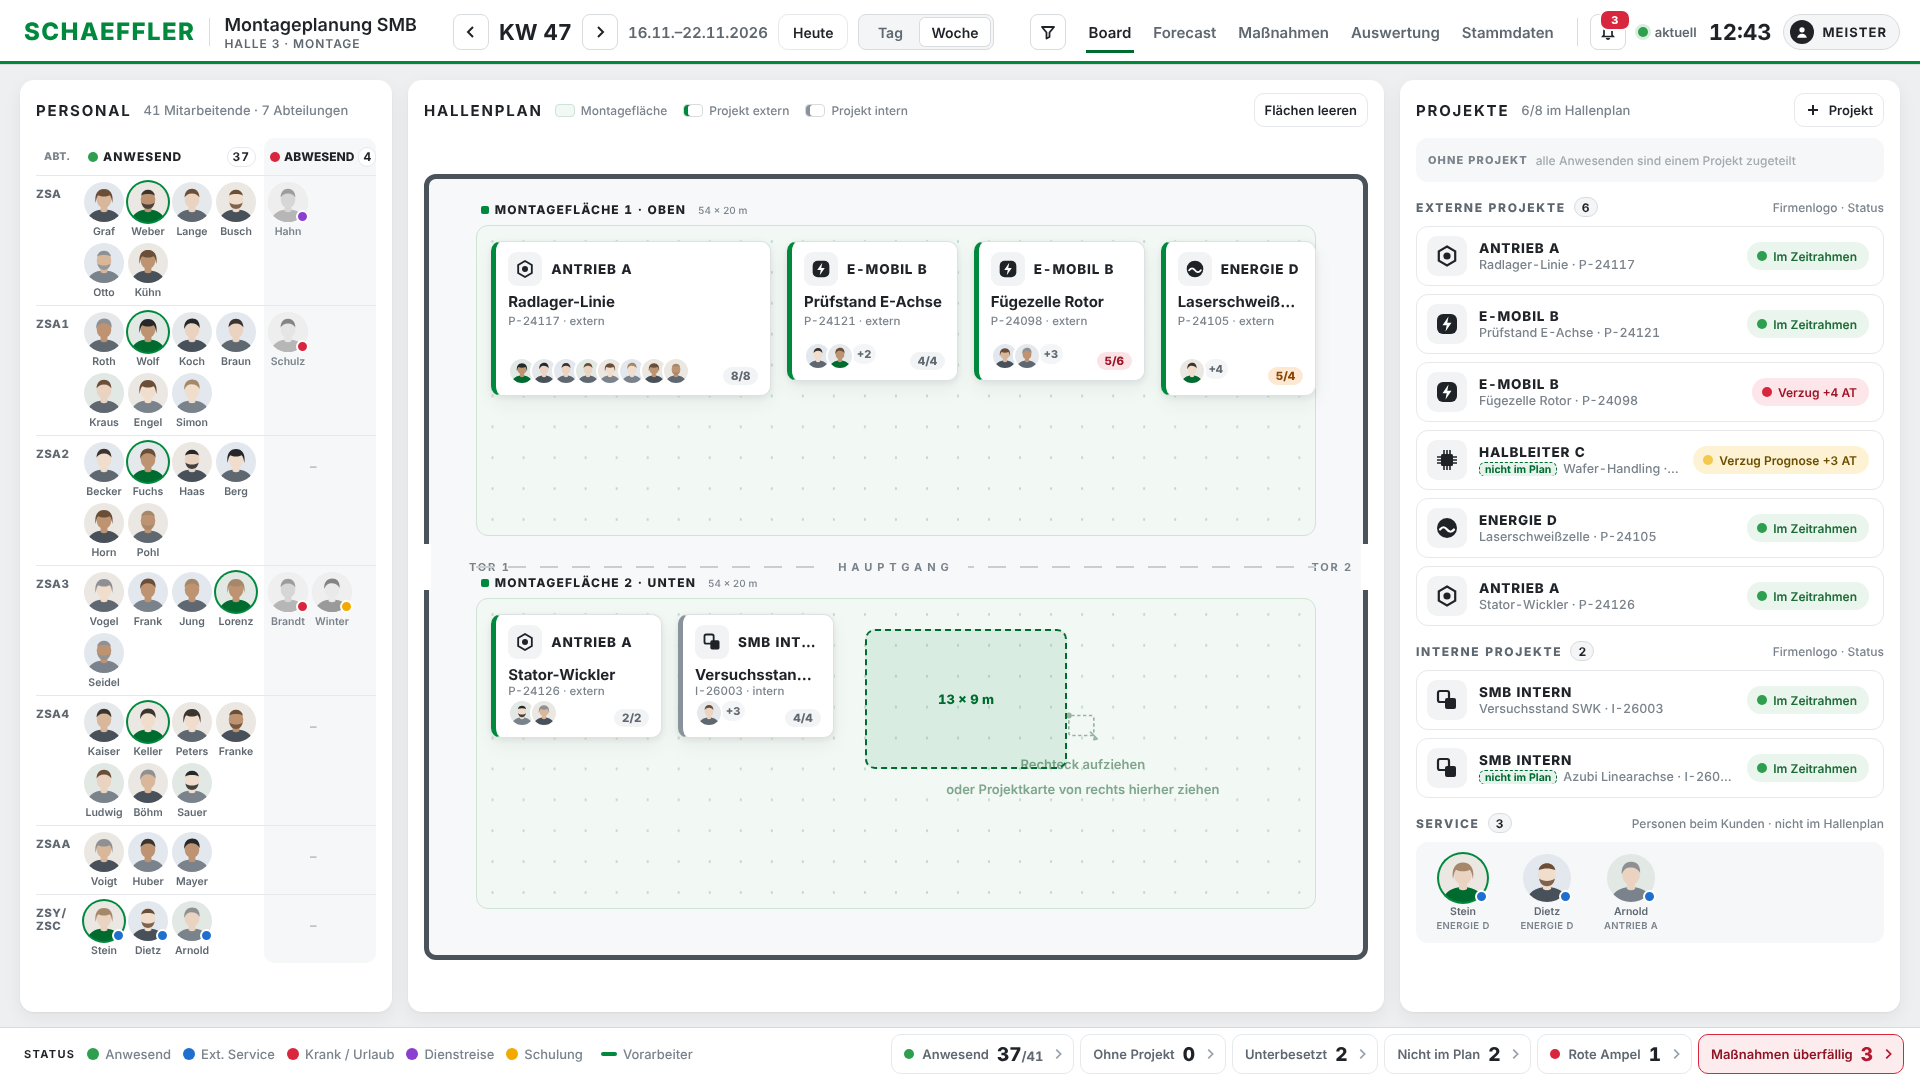
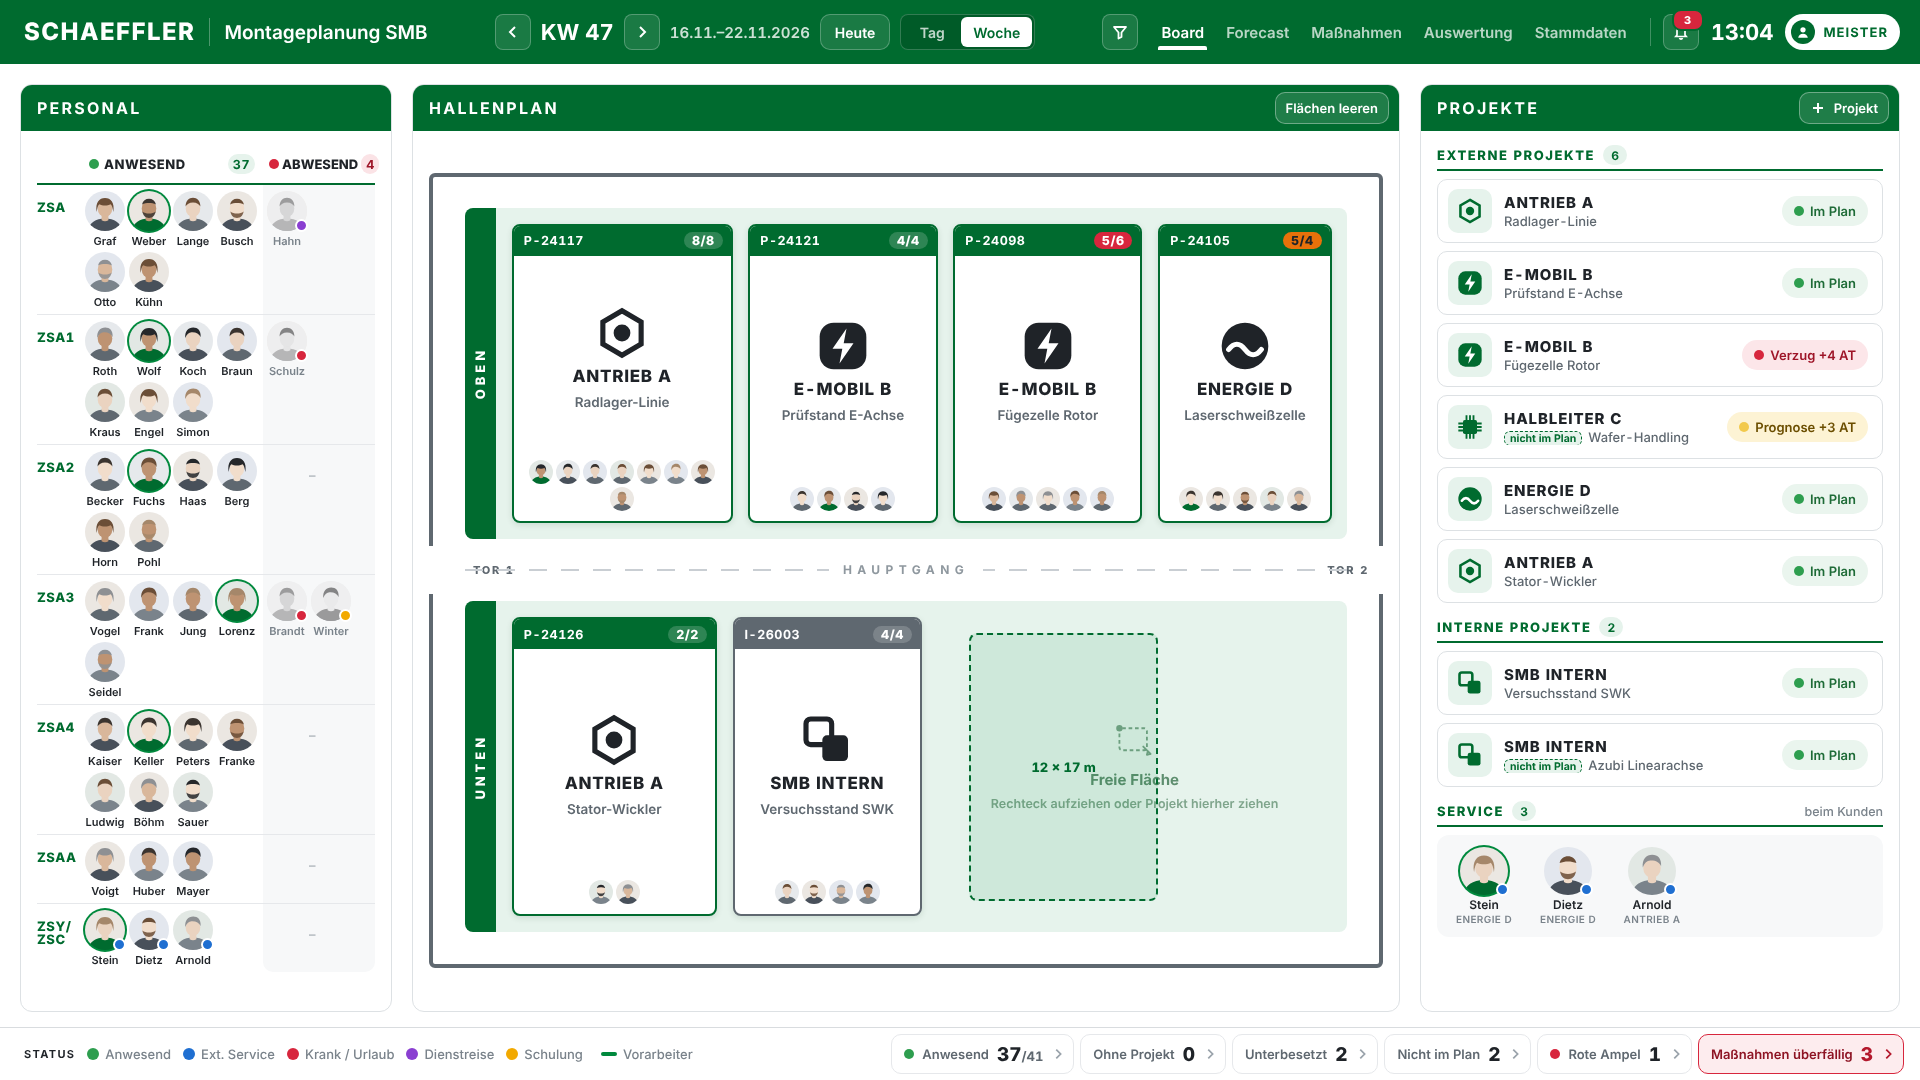
Montageboard: Corporate-Look mit kräftigem Grün, vollerer Hallenplan
Grüne Kopfzeile und Bereichs-Kopfbalken, weniger Kleintext, Projekte
füllen die Montageflächen in voller Höhe mit großem Logo und Firmennamen,
Flächen mit grünem Seitenbalken (OBEN/UNTEN), größere Projektzeilen.

Claude-Session: https://claude.ai/code/session_01FF7tkQzNvBLpewGBDK23vb

Changed region(s): [[0.0, 0.0, 1.0, 0.8861], [0.0, 0.5194, 1.0, 0.9472], [0.6875, 0.5194, 0.7188, 0.55]]

diff --git a/montageboard/index.html b/montageboard/index.html
@@ -598,6 +598,101 @@ input{font:inherit}
 .pt.abs .ph-img{filter:none;opacity:1}
 .pt.abs .ph-img::before{content:"";position:absolute;inset:0;border-radius:50%;background:rgba(246,247,248,.45);-webkit-backdrop-filter:grayscale(1);backdrop-filter:grayscale(1)}
 .ph-img .sd{z-index:1}
+
+/* =====================================================================
+   DESIGN 3 – hell, kräftiges Schaeffler-Grün, große klare Blöcke
+   ===================================================================== */
+#stage{background:#FFFFFF}
+.hdr{background:var(--green-dk);box-shadow:none;color:var(--white);height:64px}
+.hdr .wordmark{color:var(--white)}
+.hdr .brand .sep{background:rgba(255,255,255,.3)}
+.hdr .app-title{color:var(--white);font-size:19px;font-weight:600}
+.hdr .app-title small,.hdr .sync{display:none}
+.hdr .icon-btn,.hdr .btn{background:rgba(255,255,255,.1);border-color:rgba(255,255,255,.25);color:var(--white)}
+.hdr .kw-label{color:var(--white)}
+.hdr .kw-range{color:rgba(255,255,255,.8)}
+.hdr .seg{background:rgba(0,0,0,.15);border-color:rgba(255,255,255,.2)}
+.hdr .seg button{color:rgba(255,255,255,.75)}
+.hdr .seg button.on{background:var(--white);color:var(--green-dk);box-shadow:none}
+.hdr .tabs button{color:rgba(255,255,255,.72)}
+.hdr .tabs button.on{color:var(--white)}
+.hdr .tabs button.on::after{background:var(--white);bottom:0;height:4px;border-radius:2px 2px 0 0}
+.hdr .vsep{background:rgba(255,255,255,.25)}
+.hdr .clock{color:var(--white)}
+.hdr .role{background:var(--white);border:0;color:var(--green-dk)}
+.hdr .role span{background:var(--green-dk)}
+.badge-n{border-color:var(--green-dk)}
+
+.main{grid-template-columns:372px minmax(0,1fr) 480px;gap:20px;padding:20px 20px 16px}
+#v-board > .panel{background:var(--white);border:1px solid #DDE1E4;border-radius:12px;box-shadow:none;padding:0 16px 16px;overflow:hidden}
+.ph{height:46px;margin:0 -16px 14px;padding:0 10px 0 16px;background:var(--green-dk);color:var(--white)}
+.ph h2{font-size:16px;font-weight:700;letter-spacing:.14em;color:var(--white)}
+.ph .sub,.legend-mini{display:none!important}
+.ph .btn{background:rgba(255,255,255,.12);border-color:rgba(255,255,255,.35);color:var(--white);height:32px}
+
+/* Personal */
+.pt-h{height:40px;font-size:13px;letter-spacing:.08em;border-bottom:2px solid var(--green-dk)}
+.pt-h > span:first-child{font-size:0}
+.pt-h .c-ab{background:transparent;border-radius:0}
+.pt-h .count{background:var(--green-lt);border:0;color:var(--green-dk);font-size:12.5px}
+.pt-h .c-ab .count{background:#FBE3E6;color:#9E1528}
+.prow .dl{font-size:13px;color:var(--green-dk);font-weight:800;padding-top:16px}
+.prow .c-ab{background:#F7F8F9}
+.pt .cap{font-size:11px;color:var(--text);font-weight:600}
+
+/* Hallenplan */
+.mapwrap{align-items:flex-start}
+.map{background:#FFFFFF;border:4px solid #5F6870;border-radius:6px}
+.gate{background:var(--white)}
+.gate-l{background:transparent;color:var(--text-2);font-size:11px;font-weight:800}
+.aisle span{background:var(--white);color:#8F989F;font-size:12px}
+.fl{background:var(--green-lt)!important;border:0;border-radius:0 8px 8px 0}
+.fl.drop-ok{box-shadow:inset 0 0 0 3px var(--green)}
+.fl-band{position:absolute;background:var(--green-dk);border-radius:8px 0 0 8px;display:grid;place-items:center;pointer-events:none}
+.fl-band span{writing-mode:vertical-rl;transform:rotate(180deg);color:var(--white);font-size:13px;font-weight:800;letter-spacing:.3em}
+.fl-hint{color:#5E8E6F;font-size:15px;font-weight:700;gap:6px}
+.fl-hint span{font-size:12.5px;font-weight:600;color:#7FA58C}
+.fl-hint svg{width:44px;height:44px}
+.pr{padding:0;gap:0;border:2px solid var(--green-dk);border-left-width:2px;border-radius:8px;background:var(--white);box-shadow:0 2px 6px rgba(0,60,25,.12);overflow:hidden;display:flex;flex-direction:column}
+.pr.in{border-color:#5F6870;border-style:solid}
+.pr-h{height:30px;flex:none;background:var(--green-dk);color:var(--white);display:flex;align-items:center;justify-content:space-between;padding:0 8px 0 10px;font-size:12.5px;font-weight:700;letter-spacing:.04em}
+.pr.in .pr-h{background:#5F6870}
+.pcnt{background:rgba(255,255,255,.18);border-radius:10px;padding:1px 8px;font-size:12.5px;font-weight:800}
+.pcnt.under{background:var(--st-ab)}
+.pcnt.over{background:var(--warn);color:var(--text)}
+.pr-b{flex:1;min-height:0;display:flex;flex-direction:column;align-items:center;justify-content:center;gap:6px;padding:8px;text-align:center}
+.pr-b .mk{width:56px;height:56px;color:var(--text)}
+.pr-b .cn{font-size:17px;font-weight:800;letter-spacing:.04em;line-height:1.15;max-width:100%}
+.pr-b .pn{font-size:13.5px;font-weight:600;color:var(--text-2);max-width:100%;white-space:nowrap;overflow:hidden;text-overflow:ellipsis}
+.pr .stk{flex:none;display:flex;flex-wrap:wrap;justify-content:center;gap:3px;padding:0 6px 10px;margin:0}
+.pr .stk .av{margin:0;width:24px;height:24px;border:0}
+.pr .stk .more{margin:0;border:0}
+.pr .dim-m{left:auto;right:6px;bottom:auto;top:34px;border-radius:4px}
+.pr .del{top:36px;right:6px}
+.pr.sel{box-shadow:0 0 0 4px rgba(0,137,61,.35),0 10px 24px rgba(0,60,25,.18)}
+.pr.focus{box-shadow:0 0 0 4px var(--green)}
+.ghost{border-radius:8px}
+
+/* Projekte */
+.sec-h{height:26px;border-bottom:2px solid var(--green-dk);padding-bottom:4px}
+.sec-h h3{font-size:13px;color:var(--green-dk);letter-spacing:.12em}
+.sec-h .count{background:var(--green-lt);border:0;color:var(--green-dk)}
+.sec-h .hint{font-size:12.5px}
+.pc2{height:64px;border-color:#DDE1E4;border-radius:10px}
+.pc2 > .mk{width:44px;height:44px;padding:8px;background:var(--green-lt);color:var(--green-dk)}
+.pc2 .tx b{font-size:15px}
+.pc2 .tx span{font-size:13px;color:var(--text-2)}
+.stat{height:30px;font-size:13px;padding:0 12px}
+.svcbox{background:#F7F8F9}
+.pt.svcp .cap{font-size:12px}
+.pt .cu{font-size:10px}
+
+/* Fußleiste */
+.ftr .lg{font-size:13px}
+.gate-l{background:var(--white)!important;padding:0 6px}
+.mapwrap{align-items:center}
+.pt-h{letter-spacing:.04em}
+.pt-h > span.c-ab{gap:3px}
 @media (prefers-reduced-motion:reduce){.pt.sel,.flash{animation:none}}
 </style>
 </head>
@@ -809,17 +904,17 @@ const ZUTEILUNG = {
 /* HALLE in Metern: Umriss 60 × 50 m mit zwei Montageflächen und Hauptgang */
 const HALLE = {w:60, h:50};
 const FLAECHEN = [
-  {id:'F1', n:'Montagefläche 1 · oben',  x:3, y:3,  w:54, h:20},
-  {id:'F2', n:'Montagefläche 2 · unten', x:3, y:27, w:54, h:20},
+  {id:'F1', n:'Montagefläche oben',  k:'OBEN',  x:4, y:2,  w:54, h:21},
+  {id:'F2', n:'Montagefläche unten', k:'UNTEN', x:4, y:27, w:54, h:21},
 ];
 /* PLAN – Projekt → aufgezogenes Rechteck (Meter, Hallenkoordinaten) */
 let PLAN = {
-  'P-24117':{x:4, y:4, w:18,h:10},
-  'P-24121':{x:23,y:4, w:11,h:9},
-  'P-24098':{x:35,y:4, w:11,h:9},
-  'P-24105':{x:47,y:4, w:10,h:10},
-  'P-24126':{x:4, y:28,w:11,h:8},
-  'I-26003':{x:16,y:28,w:10,h:8},
+  'P-24117':{x:5, y:3, w:14,h:19},
+  'P-24121':{x:20,y:3, w:12,h:19},
+  'P-24098':{x:33,y:3, w:12,h:19},
+  'P-24105':{x:46,y:3, w:11,h:19},
+  'P-24126':{x:5, y:28,w:13,h:19},
+  'I-26003':{x:19,y:28,w:12,h:19},
 };
 
 /* Stammdaten-Abruf per Projektnummer (fiktive ERP-Antworten) */
@@ -951,24 +1046,22 @@ function renderMap(){
   let html = `
     <span class="gate" style="top:${pc(23.5,50)};height:${pc(3,50)};left:-6px;width:8px"></span><span class="gate-l" style="left:34px;top:${pc(25,50)};transform:translateY(-50%)">TOR 1</span>
     <span class="gate" style="top:${pc(23.5,50)};height:${pc(3,50)};right:-6px;width:8px"></span><span class="gate-l" style="right:4px;top:${pc(25,50)};transform:translateY(-50%)">TOR 2</span>
-    <div class="aisle" style="${box({x:3,y:23,w:54,h:4})}"><span style="writing-mode:horizontal-tb;transform:none">HAUPTGANG</span></div>`;
+    <div class="aisle" style="${box({x:2,y:23,w:56,h:4})}"><span style="writing-mode:horizontal-tb;transform:none">HAUPTGANG</span></div>`;
   FLAECHEN.forEach(f=>{
-    html += `<div class="fl" data-fl="${f.id}" style="${box(f)};background-image:linear-gradient(to right,#EEF0F2 1px,transparent 1px),linear-gradient(to bottom,#EEF0F2 1px,transparent 1px);background-size:${100/(f.w/2)}% ${100/(f.h/2)}%">
-      <span class="fl-l">${f.n}<small>${f.w} × ${f.h} m</small></span></div>`;
+    html += `<div class="fl-band" style="${box({x:f.x-2,y:f.y,w:2,h:f.h})}"><span>${f.k}</span></div><div class="fl" data-fl="${f.id}" style="${box(f)}"></div>`;
   });
   // Hinweis auf größter freier Zone
-  const hz = [{x:28,y:29,w:28,h:16},{x:4,y:37,w:22,h:9},{x:25,y:15,w:31,h:7}].find(z=>frei(z));
-  if(hz) html += `<div class="fl-hint" style="${box(hz)}">${ICO.draw}Rechteck aufziehen<br><span style="font-weight:600">oder Projektkarte von rechts hierher ziehen</span></div>`;
+  const hz = [{x:33,y:29,w:23,h:17},{x:5,y:29,w:25,h:17},{x:5,y:4,w:25,h:17}].find(z=>frei(z));
+  if(hz) html += `<div class="fl-hint" style="${box(hz)}">${ICO.draw}Freie Fläche<br><span>Rechteck aufziehen oder Projekt hierher ziehen</span></div>`;
   Object.entries(PLAN).forEach(([nr,r])=>{
     const pr = PR(nr); if(!pr) return;
-    const ppl = leute(nr), n = ppl.length, maxAv = Math.max(1, Math.floor((r.w*15.5-100)/20));
+    const ppl = leute(nr), n = ppl.length, maxAv = Math.max(2, Math.floor((r.w*15.7-24)/27)*2);
     const vis = ppl.length>maxAv ? maxAv-1 : maxAv;
     const stk = ppl.slice(0,vis).map(p=>`<span class="av ph-${p.id}" draggable="true" data-pid="${p.id}" data-tip="${personTip(p)}"></span>`).join('') + (ppl.length>vis?`<span class="more">+${ppl.length-vis}</span>`:'');
     html += `<div class="pr ${pr.kl==='intern'?'in':''} ${S.selRect===nr?'sel':''} ${S.focus===nr?'focus':''}" data-nr="${nr}" style="${box(r)}" data-tip="${pr.nr} ${pr.nm} · ${LOGO[pr.c].n}\nFläche ${r.w} × ${r.h} m · Personal ${n}/${pr.soll}">
-      <span class="dim-m">${r.w} × ${r.h} m</span>
-      <div class="co">${mk(pr.c)}<b>${LOGO[pr.c].n}</b></div>
-      <div class="pn">${pr.nm}</div><div class="nr2">${nr} · ${pr.kl}</div>
-      <div class="ft"><span class="stk">${stk}</span><span class="cnt ${n<pr.soll?'under':n>pr.soll?'over':''}">${n}/${pr.soll}</span></div>
+      <div class="pr-h"><span>${nr}</span><span class="pcnt ${n<pr.soll?'under':n>pr.soll?'over':''}">${n}/${pr.soll}</span></div>
+      <div class="pr-b"><span class="mk">${LOGO[pr.c].svg}</span><b class="cn">${LOGO[pr.c].n}</b><span class="pn">${pr.nm}</span></div>
+      <div class="stk">${stk}</div><span class="dim-m">${r.w} × ${r.h} m</span>
       <button class="del" data-del="${nr}" aria-label="Aus dem Plan nehmen" data-tip="Aus dem Plan nehmen">${ICO.x}</button><span class="rz" data-tip="Größe ändern"></span></div>`;
   });
   if(S.ghost) html += `<div class="ghost ${S.ghost.bad?'bad':''}" style="${box(S.ghost)}">${S.ghost.w} × ${S.ghost.h} m</div>`;
@@ -983,24 +1076,24 @@ function renderProjects(){
   const ohne = MITARBEITER.filter(p=>istAnw(p) && !ZUTEILUNG[p.id]);
   const nPlan = PROJEKTE.filter(p=>p.kl!=='service' && imPlan(p)).length, nHalle = PROJEKTE.filter(p=>p.kl!=='service').length;
   $('#projSub').textContent = `${nPlan}/${nHalle} im Hallenplan`;
-  let html = `<div class="ohne ${ohne.length?'has':''}" id="ohne" data-drop="ohne"><span class="l">Ohne Projekt</span>
+  let html = `<div class="ohne ${ohne.length?'has':''}" ${ohne.length?'':'hidden'} id="ohne" data-drop="ohne"><span class="l">Ohne Projekt</span>
     ${ohne.length ? ohne.map(p=>`<span class="ph-img ph-${p.id}" style="width:28px;height:28px" draggable="true" data-pid="${p.id}" data-tip="${personTip(p)}"><i class="sd ${STATUS[p.s].c}"></i></span>`).join('') : '<span class="t">alle Anwesenden sind einem Projekt zugeteilt</span>'}</div>`;
-  [['extern','Externe Projekte','Firmenlogo · Status'],['intern','Interne Projekte','Firmenlogo · Status']].forEach(([k,l,hint])=>{
+  [['extern','Externe Projekte',''],['intern','Interne Projekte','']].forEach(([k,l,hint])=>{
     const list = PROJEKTE.filter(p=>p.kl===k);
     html += `<div class="sec"><div class="sec-h"><h3>${l}</h3><span class="count">${list.length}</span><span class="hint">${hint}</span></div><div class="plist2">${list.map(zeile).join('')}</div></div>`;
   });
   const svc = MITARBEITER.filter(p=>p.s==='ex');
-  html += `<div class="sec"><div class="sec-h"><h3>Service</h3><span class="count">${svc.length}</span><span class="hint">Personen beim Kunden · nicht im Hallenplan</span></div>
+  html += `<div class="sec"><div class="sec-h"><h3>Service</h3><span class="count">${svc.length}</span><span class="hint">beim Kunden</span></div>
     <div class="svcbox" data-drop="svc">${svc.map(p=>{ const pr=PR(ZUTEILUNG[p.id]);
       return `<div class="pt svcp ${S.sel===p.id?'sel':''}" draggable="true" data-pid="${p.id}" data-tip="${personTip(p)}">${foto(p)}<span class="cap">${surname(p.n)}</span><span class="cu">${pr?LOGO[pr.c].n:''}</span></div>`; }).join('') || '<span class="t">niemand im externen Service</span>'}</div></div>`;
   box2.innerHTML = html;
 }
 function zeile(pr){
   const f = forecast(pr), d = f.amp[2];
-  const st = d==='g' ? 'Im Zeitrahmen' : d==='y' ? `Verzug Prognose +${pr.verzug.at} AT` : `Verzug +${pr.verzug.at} AT`;
+  const st = d==='g' ? 'Im Plan' : d==='y' ? `Prognose +${pr.verzug.at} AT` : `Verzug +${pr.verzug.at} AT`;
   return `<article class="pc2 ${S.focus===pr.nr?'focus':''}" data-nr="${pr.nr}" draggable="true" data-tip="${pr.nr} ${pr.nm} · Phase ${pr.cur} · bis ${pr.to}\nPersonal Ist ${ist(pr)} / Soll ${pr.soll}${imPlan(pr)?'':'\nNoch nicht im Hallenplan – auf eine Montagefläche ziehen'}">
     <span class="mk">${LOGO[pr.c].svg}</span>
-    <div class="tx"><b>${LOGO[pr.c].n}</b><span>${imPlan(pr)?'':'<em class="np">nicht im Plan</em>'}${pr.nm} · ${pr.nr}</span></div>
+    <div class="tx"><b>${LOGO[pr.c].n}</b><span>${imPlan(pr)?'':'<em class="np">nicht im Plan</em>'}${pr.nm}</span></div>
     <span class="stat ${d}"><i></i>${st}</span></article>`;
 }
 
@@ -1444,7 +1537,7 @@ stage.addEventListener('drop', e=>{
   }
   // Projektkarte auf Fläche → Standardrechteck an der Abwurfstelle
   const pr = PR(d.nr), m = toM(e), f = FLAECHEN.find(x=>m.y>=x.y&&m.y<=x.y+x.h) || (m.y<25?FLAECHEN[0]:FLAECHEN[1]);
-  const sz = PLAN[d.nr] ? {w:PLAN[d.nr].w,h:PLAN[d.nr].h} : {w:Math.max(8,Math.min(14,pr.soll*2+4)), h:8};
+  const sz = PLAN[d.nr] ? {w:PLAN[d.nr].w,h:PLAN[d.nr].h} : {w:12, h:f.h-2};
   const r = freiePos(f, sz.w, sz.h, m.x, m.y, d.nr);
   if(!r){ toast('Kein freier Platz in dieser Größe – Rechteck selbst aufziehen'); return; }
   platzieren(d.nr, r);
